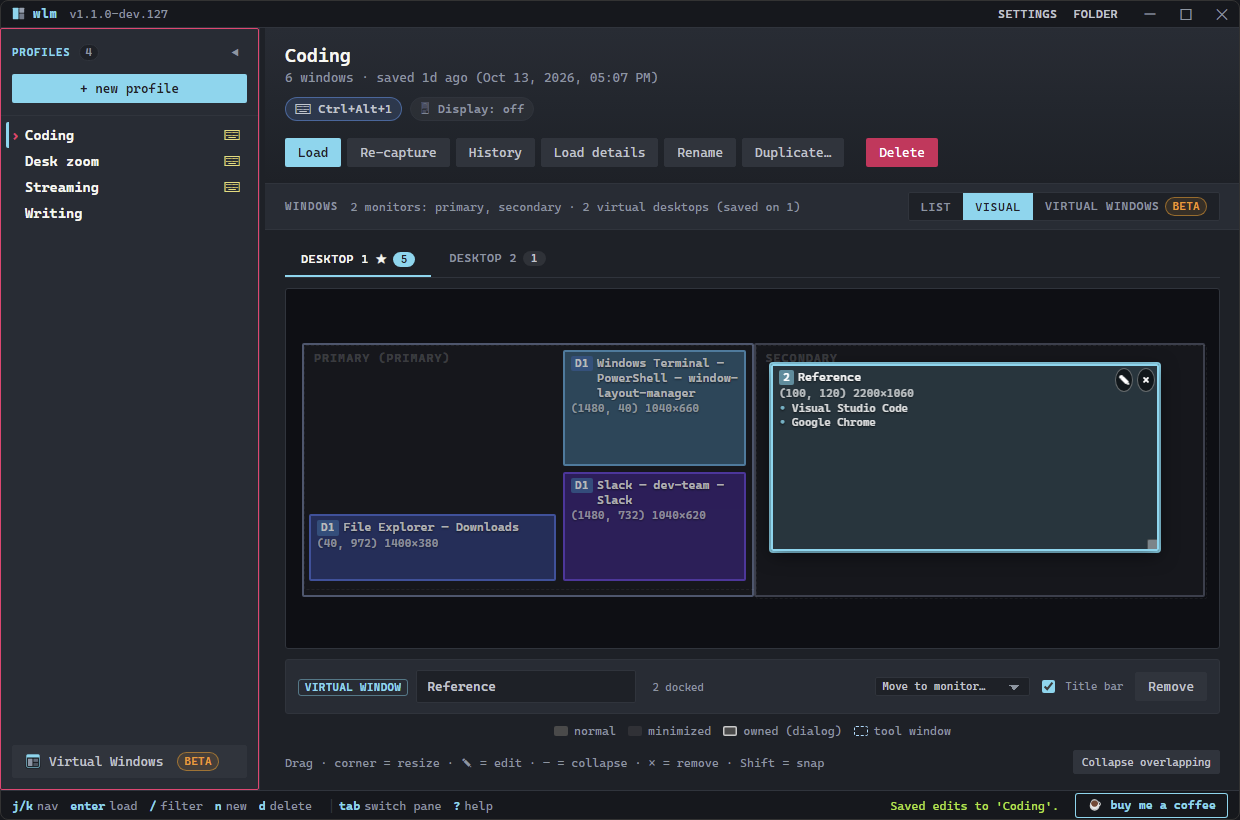
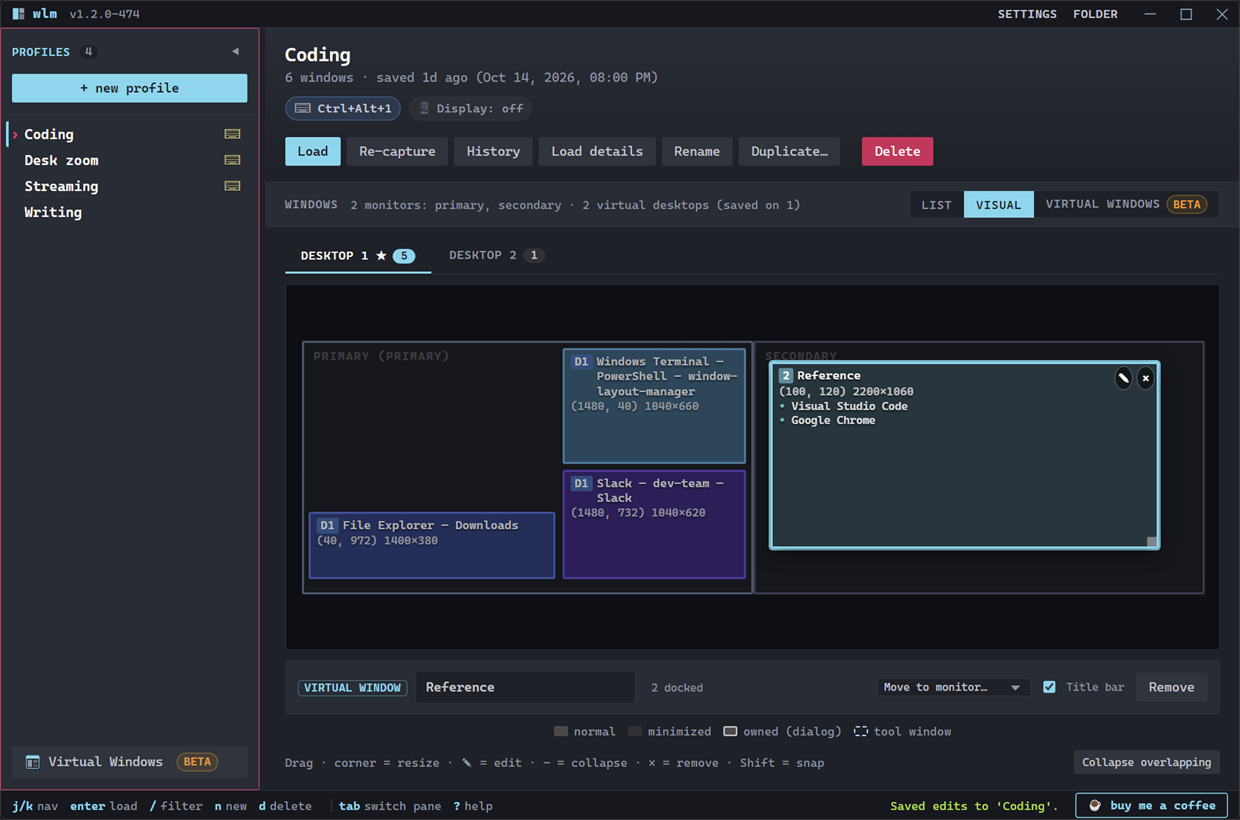
WLM v1.2.0-474: feed, download button, fresh tutorial shots
Claude-Session: https://claude.ai/code/session_01AYSDMTmgXxQidvGpzFcixT

diff --git a/projects/windowlayoutmanager/tutorial/index.html b/projects/windowlayoutmanager/tutorial/index.html
@@ -337,7 +337,7 @@
           <ul>
             <li>Load - Puts every captured window back, even after apps restarted, titles changed, or Windows shoved everything onto one screen. The matcher re-finds windows by process, class, title, owner, and position.</li>
             <li>Re-capture - Replaces the selected profile's saved windows with the ones open now. Hotkey, history, per-window colours, "recognise by" rules, and Virtual Windows all survive. (It was called Update before dev.127; the <kbd>u</kbd> key is the same.)</li>
-            <li>Windows that aren't running - A Load places what's open and reports the rest as missing in Load details. Starting an app that isn't running (Explorer in the same folder, a console where it was working) is parked while docking is being hardened; the option left the Virtual Windows page after dev.127 and comes back once that settles.</li>
+            <li>Windows that aren't running - A Load places what's open and reports the rest as missing in Load details. Starting an app that isn't running (Explorer in the same folder, a console where it was working) is parked while docking is being hardened; the option left the Virtual Windows page in v1.2.0-474 and comes back once that settles.</li>
             <li>Load details - A per-window report of the last load: what matched, what moved, what was missing.</li>
             <li>A Load is one pass. It's finished when it returns, and nothing keeps moving windows afterwards. An app that opens slowly? Press the hotkey again once it settles.</li>
           </ul>

diff --git a/projects/windowlayoutmanager/index.html b/projects/windowlayoutmanager/index.html
@@ -604,7 +604,7 @@
                dev.74, which is what anyone with scripts blocked would have
                downloaded. -->
           <a class="btn-download" id="dl-btn"
-             href="https://github.com/defessler/WindowLayoutManager-releases/releases/download/v1.1.0-dev.127/WindowLayoutManager-v1.1.0-dev.127-win-x64.zip">Download for Windows</a>
+             href="https://github.com/defessler/WindowLayoutManager-releases/releases/download/v1.2.0-474/WindowLayoutManager-v1.2.0-474-win-x64.zip">Download for Windows</a>
           <div class="dl-meta">
             <div id="dl-version">latest release<span class="pre-badge" id="dl-pre" hidden>pre-release</span></div>
             <div id="dl-info">x64 · portable .zip</div>
